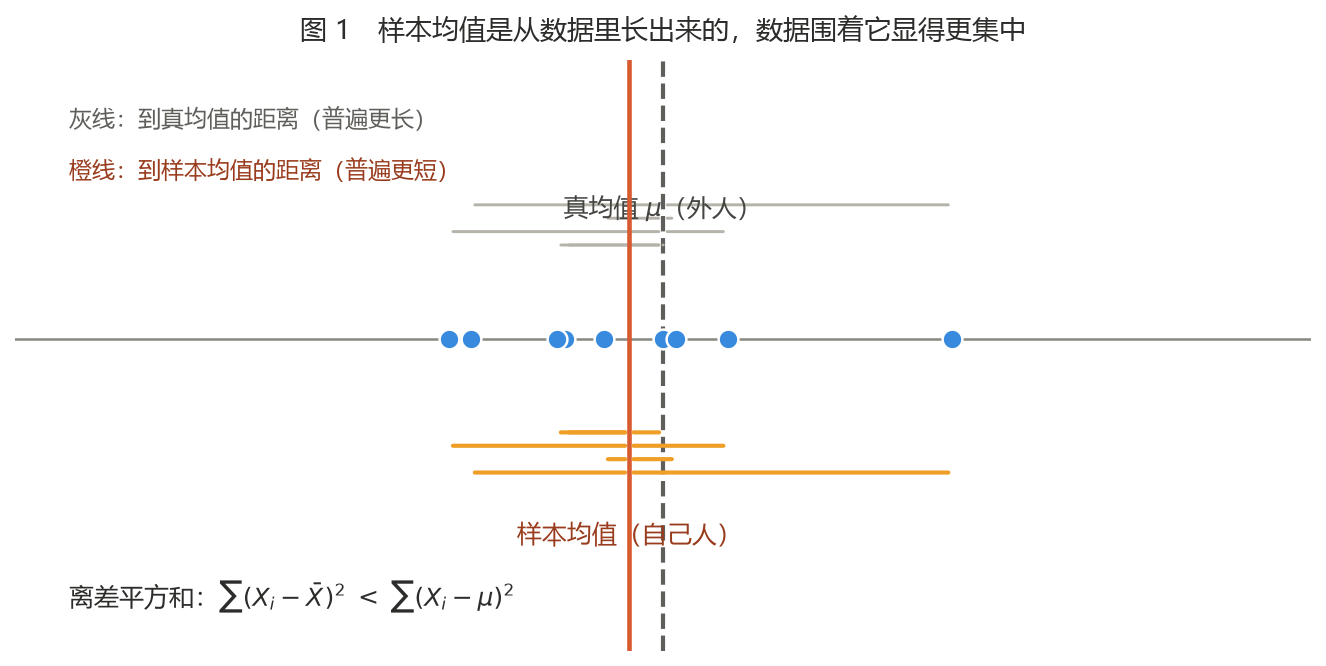
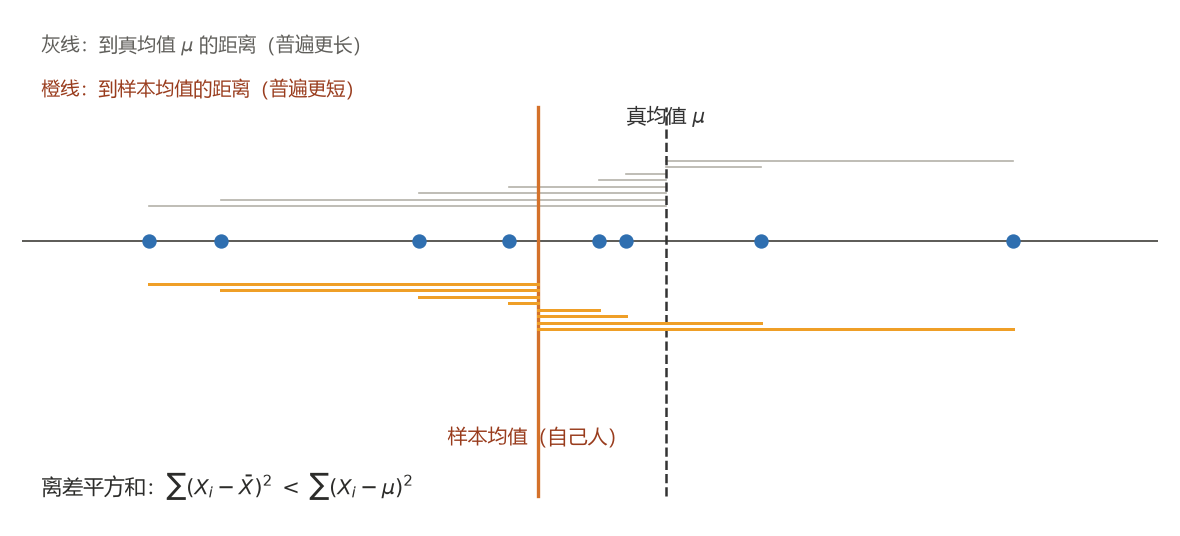
Polish blog post: academic headings, figure captions, and TOC for blog

diff --git a/src/views/PostView.vue b/src/views/PostView.vue
@@ -12,9 +12,11 @@ const route = useRoute()
 const post = ref<Post | null>(null)
 const error = ref('')
 const loading = ref(true)
-// 文章目录：仅学术类文章展示左侧粘性目录；MarkdownView 渲染后回填
+// 文章目录：学术类与博客类文章展示左侧粘性目录；MarkdownView 渲染后回填
 const toc = ref<TocItem[]>([])
-const showToc = computed(() => post.value?.category === 'academic' && toc.value.length > 0)
+const showToc = computed(() =>
+  (post.value?.category === 'academic' || post.value?.category === 'blog') && toc.value.length > 0,
+)
 
 async function load(slug: string) {
   loading.value = true
@@ -203,13 +205,11 @@ const bodyContent = computed(() => {
 }
 
 .post__title {
-  /* 高对比艺术衬线（Didone）：笔画粗细对比明显、字母高度一致，视觉上更接近「艺术字」，
-     且各字母大小近似一致，不受 variable-wonk 影响。跨平台按优先级回退。 */
-  font-family: Didot, 'Bodoni MT', 'Bodoni 72', Didot LT STD, 'Baskerville Old Face', Baskerville, 'Times New Roman', serif;
-  font-weight: 700;
+  /* 艺术衬线标题：字母大小一致、跨平台可用的经典字体栈，不受 variable-wonk 影响 */
+  font-family: 'Palatino Linotype', 'Book Antiqua', Palatino, 'Times New Roman', Georgia, serif;
   font-size: clamp(1.95rem, 4.4vw, 3rem);
   line-height: 1.25;
-  letter-spacing: 0.015em;
+  letter-spacing: 0.01em;
   margin-top: 0.8rem;
   /* 让标题行充分向右延展，消除右侧大片留白 */
   text-wrap: normal;
